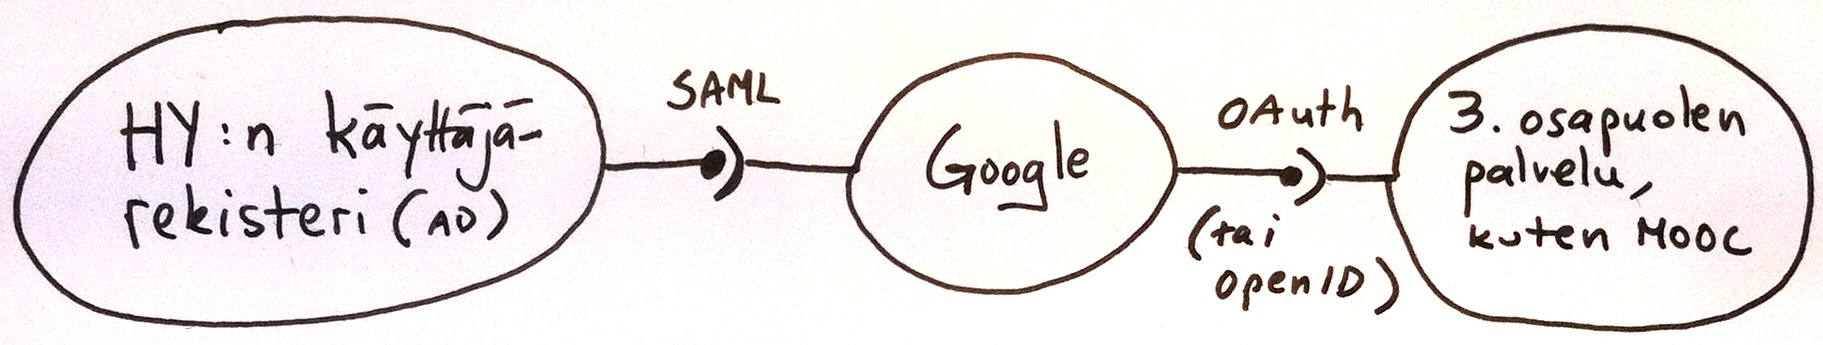
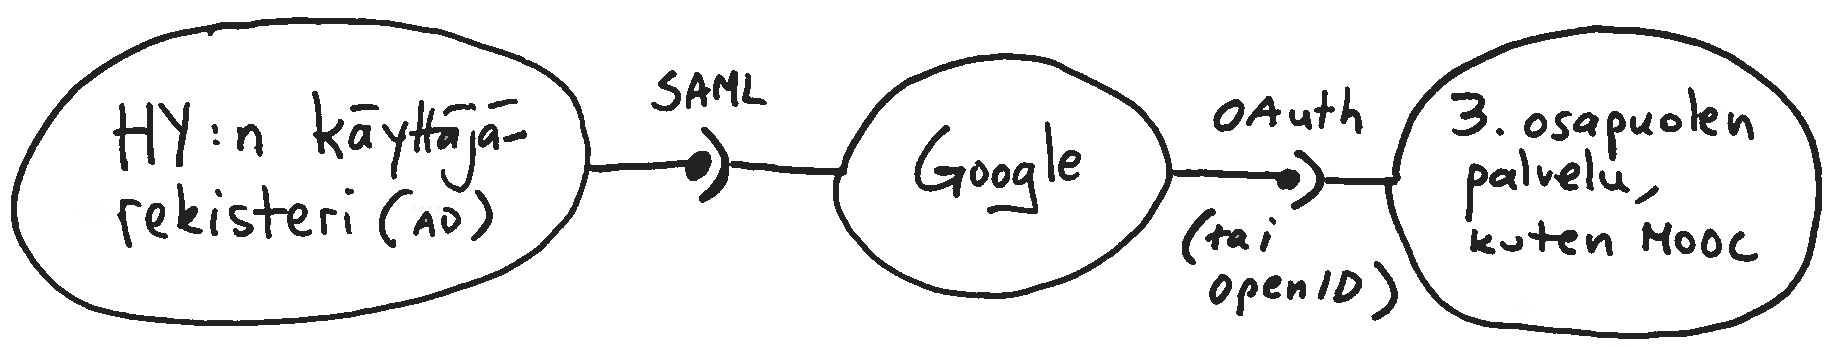
OpenID Flow-kuva, jatkokehityskuva, oauth implicit kuva

Changed region(s): [[0.0, 0.029, 1.0, 0.9855], [0.7987, 0.058, 0.9216, 0.2029], [0.9216, 0.1159, 0.9523, 0.1739]]

diff --git a/tex/g.tex b/tex/g.tex
@@ -617,8 +617,8 @@ tai suojaa vakoiluohjelmilta\footnote{Vakoiluohjelma on luvatta käyttäjän tie
 
   \begin{figure}
     \centering
-    \includegraphics[width=0.9\textwidth]{images/openid_flow_recordon06.jpg}
-    \caption[OpenID-autentikoinnin vaiheet]{OpenID-autentikoinnin vaiheet~\cite{openid_recordon_2009} (todo piirrä parempi kuva. numeroi vaiheet a,b,c)}
+    \includegraphics[width=1.0\textwidth]{images/openid2_flow.jpg}
+    \caption[OpenID-autentikoinnin vaiheet]{OpenID-autentikoinnin vaiheet~\cite{openid_recordon_2009}}
     \label{fig:basic_openid_flow}
   \end{figure}
 
